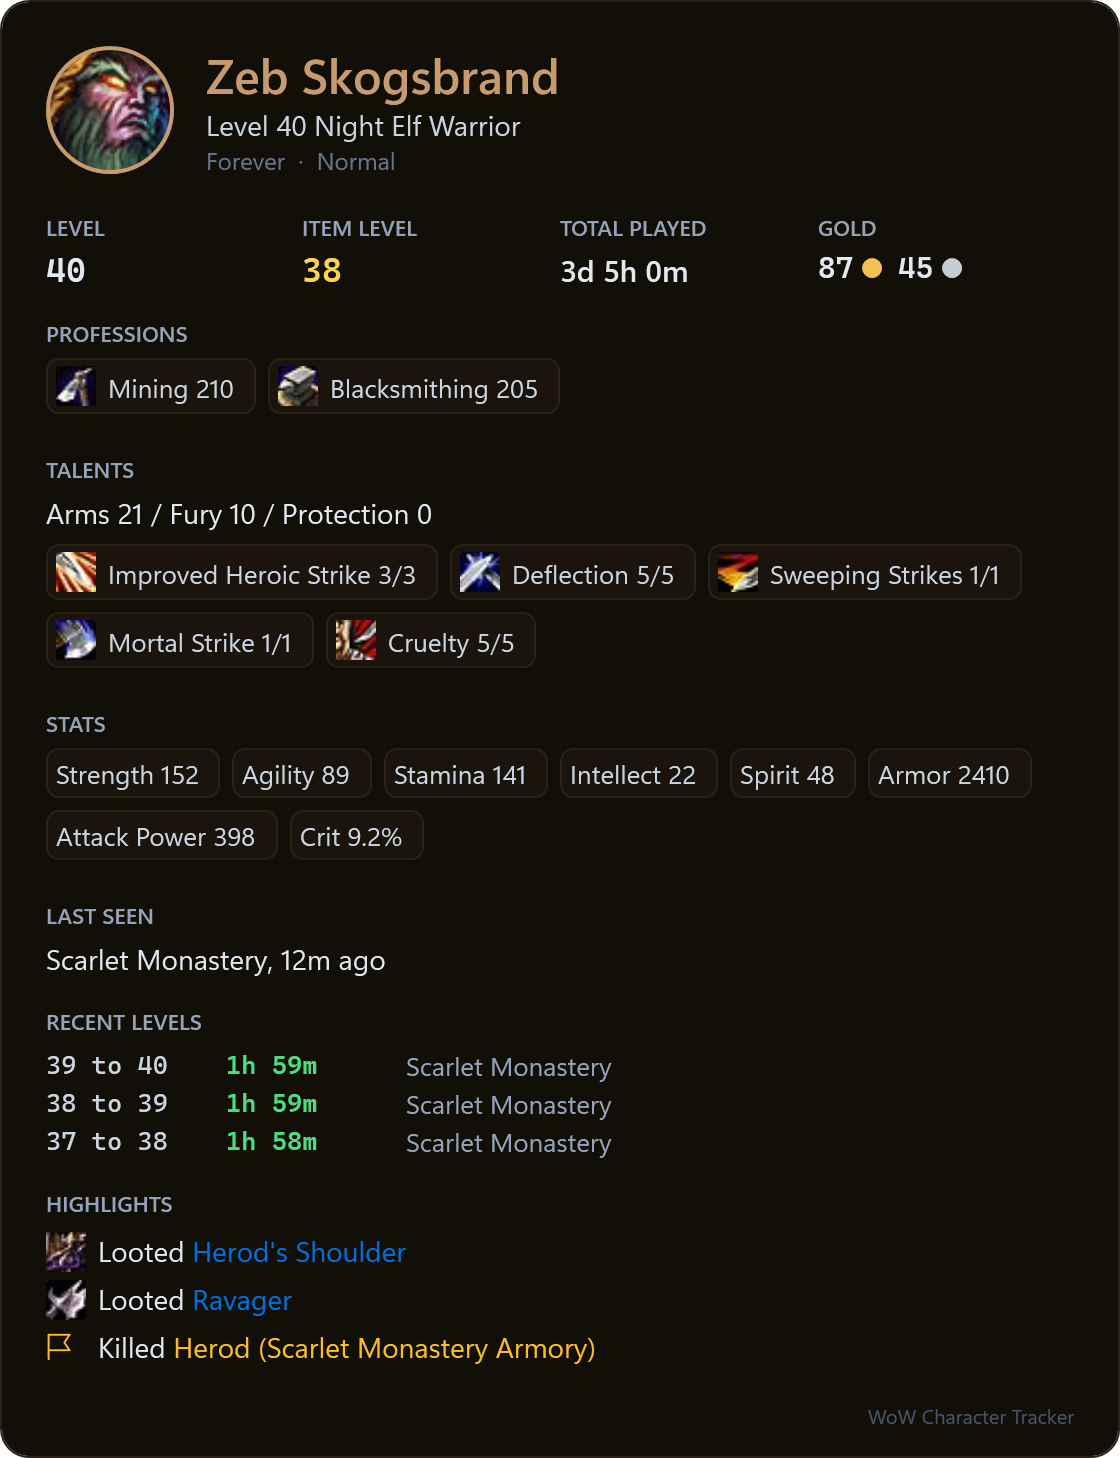
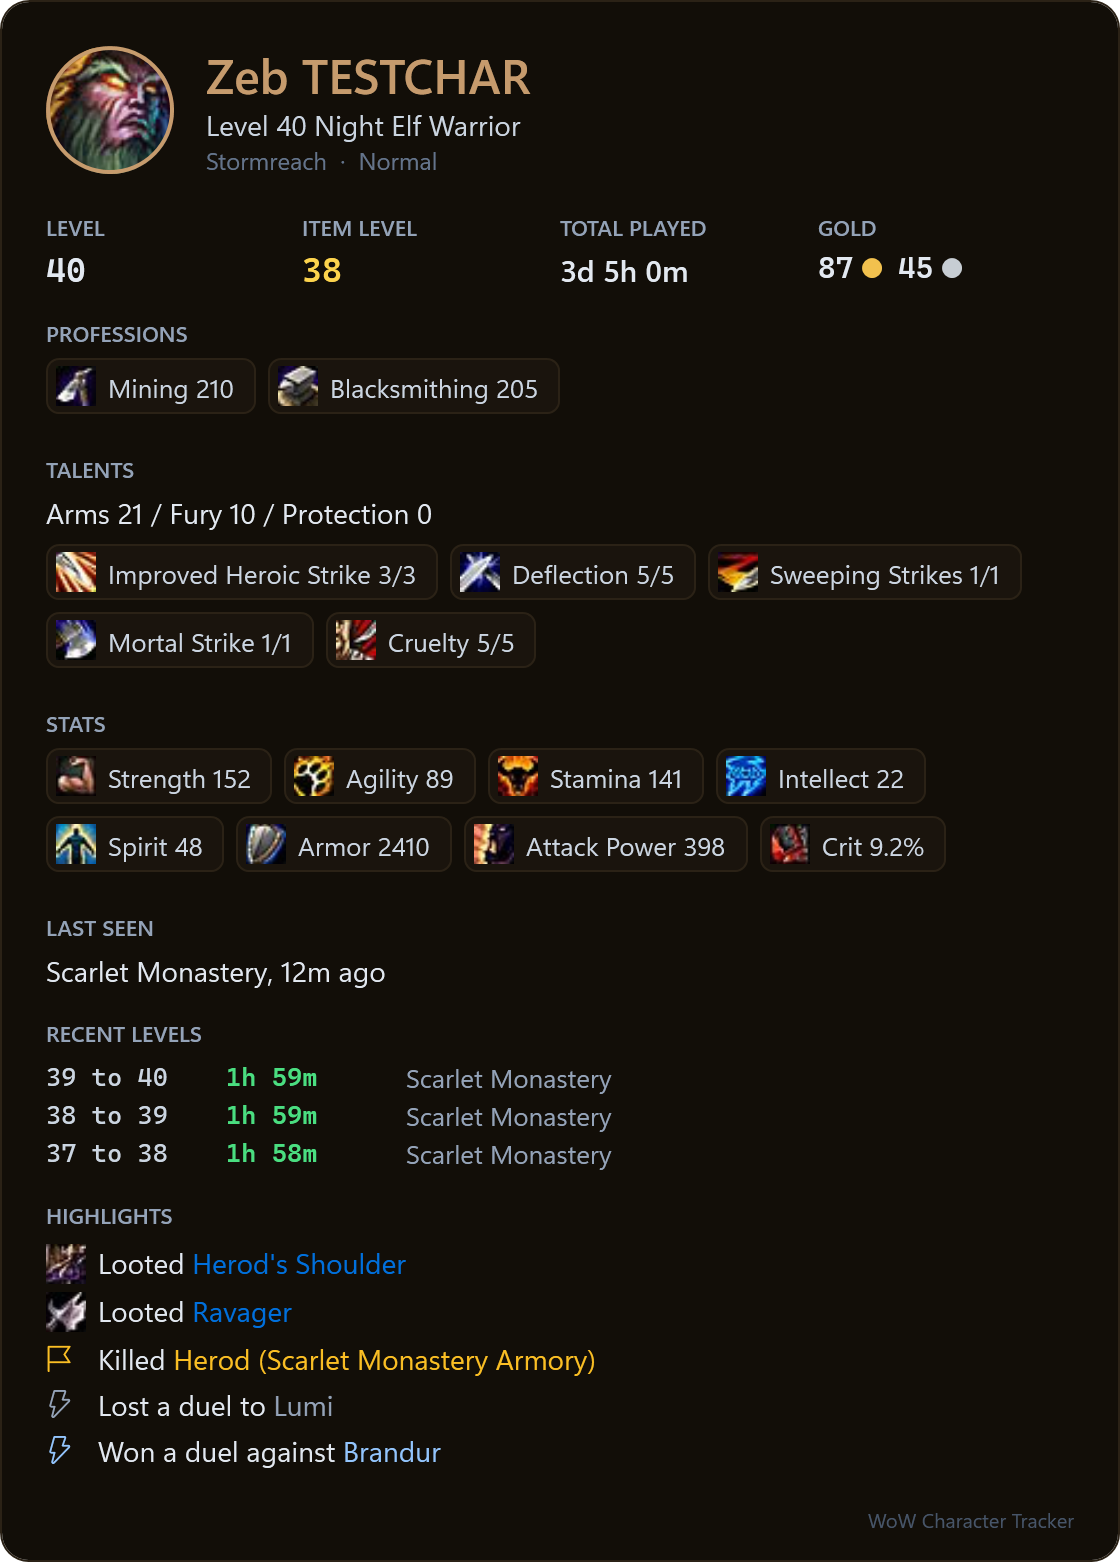
docs: readme and pictures for 0.20.0
Start menu shortcut and download size, stat and zone icons, the
in-game portrait in posts. New pictures: characters, what gets posted,
uninstall and the Discord character card with stat icons.

Claude-Session: 472c1081-3463-49da-900f-56dbae6ece1d

diff --git a/README.md b/README.md
@@ -38,7 +38,7 @@ A level-up post, with the screenshot the addon took in game:
 
 ## Getting started
 
-1. Download `WoWCharacterTracker.exe` from the [Releases page](https://github.com/JDybeck/wow-character-tracker/releases/latest). Nothing else to install. Windows might show a SmartScreen warning since the exe isn't signed, click **More info** and then **Run anyway**.
+1. Download `WoWCharacterTracker.exe` (about 60 MB) from the [Releases page](https://github.com/JDybeck/wow-character-tracker/releases/latest). Nothing else to install. On its first start it adds itself to your Start menu, so you can find it later by typing "WoW Character Tracker" in Windows search. Windows might show a SmartScreen warning since the exe isn't signed, click **More info** and then **Run anyway**.
 
    Developers can build it themselves instead: run `build.cmd` (needs the [.NET 10 SDK](https://dotnet.microsoft.com/download)), it lands in `dist\`.
 2. Double-click `WoWCharacterTracker.exe`. Pick **Retail** or **Forever** at the top. Three checks show what's set up for that game:
@@ -93,7 +93,7 @@ The **In game** page has what the addon does in game besides posting:
 ### The app
 
 - **Characters**: every character you've logged in with the addon, with class, spec, level, item level, gold and when you last played. The bottom of the list shows the total gold and total played for the realm (Retail) or ruleset (Forever) you've filtered on. Hardcore characters are marked. Click one for its details, in three tabs:
-  - **Overview**: guild, total played, gold, crests and your Mythic Keystone (Retail), professions, talents, stats, last zone and highlights. Boss kills say who was there, deaths what they cost. On Forever, talents are split into the class's three trees and every talent you picked is shown with its icon and rank. On Retail, **Open in Wowhead talent calculator** opens your build there. **Post talents to Discord** posts the build on its own: level, race and class, the points per tree, the talents picked and the Wowhead calculator link.
+  - **Overview**: guild, total played, gold, crests and your Mythic Keystone (Retail), professions, talents, stats (each with its icon), last zone (with an icon for what kind of place it is: dungeon, raid, battleground, city, town or the open world) and highlights. Boss kills say who was there, deaths what they cost. On Forever, talents are split into the class's three trees and every talent you picked is shown with its icon and rank. On Retail, **Open in Wowhead talent calculator** opens your build there. **Post talents to Discord** posts the build on its own: level, race and class, the points per tree, the talents picked and the Wowhead calculator link.
   - **Gear and bags**: what the character wears, laid out like the character window, then its bags and its bank (as of the last time you opened it), with icons, quality colors and Wowhead tooltips. Click an item to open it on Wowhead.
 
     <img src="docs/images/gear-and-bags.png" alt="A character's gear and bags in the app" width="560">
@@ -126,7 +126,7 @@ The **In game** page has what the addon does in game besides posting:
   ![A new version available: the Update button at the top and the banner with Update now](docs/images/update-available.png)
 
 - **Stream overlay** (the panel between Discord and the console): see [Streaming](#streaming).
-- **Uninstall** (Settings, at the bottom): lists everything the app and the addon put on your PC, with every path and its size, and you pick what goes: the app, the addon in each game, your character data in each game, and the app's settings and caches. **Keep my data** (the default) removes the app and the addon but keeps your characters and settings for later, **Remove everything** removes it all, **Only the app** leaves the addon running. Afterwards it shows what was removed, closes, and the app deletes itself a moment later. Close the game first, since it writes the addon's files again when it exits. Your screenshots, your webhooks in Discord and the game's Advanced combat logging setting stay either way.
+- **Uninstall** (Settings, at the bottom): lists everything the app and the addon put on your PC, with every path and its size, and you pick what goes: the app (with its Start menu shortcut), the addon in each game, your character data in each game, and the app's settings and caches. **Keep my data** (the default) removes the app and the addon but keeps your characters and settings for later, **Remove everything** removes it all, **Only the app** leaves the addon running. Afterwards it shows what was removed, closes, and the app deletes itself a moment later. Close the game first, since it writes the addon's files again when it exits. Your screenshots, your webhooks in Discord and the game's Advanced combat logging setting stay either way.
 
   <img src="docs/images/uninstall.png" alt="The Uninstall page: every part with its paths and size" width="640">
 
@@ -212,7 +212,7 @@ Not built yet, roughly in order:
 - Professions and end bosses are matched by English name, so a non-English client won't show them.
 - Bags and gear reach the app on `/reload` or logout (they're too much for the live channel). The bank only updates when you open it in game.
 - Rating milestones start counting from the first time the addon sees your rating, so ratings you already had aren't posted.
-- Retail portraits are the character's own render, found through Raider.IO (after the next login with the updated addon). Forever characters show their own portrait in the app: the addon puts it next to the data grid in the check-in shot after you log in, and the app cuts it out. Discord needs a web address for pictures, so posts use the race portrait from Wowhead's icon CDN (or the class icon) instead.
+- Retail portraits are the character's own render, found through Raider.IO (after the next login with the updated addon). Forever characters show their own portrait in the app: the addon puts it next to the data grid in the check-in shot after you log in, and the app cuts it out. Talent posts and text character cards upload it with the message as their picture. The sender picture has to be a web address, so it stays the race portrait from Wowhead's icon CDN (or the class icon), and so do automatic posts like level-ups.
 - Screenshots go out at full size first (boosted servers allow bigger uploads). If Discord says one is too big, a smaller JPEG copy is sent instead, and only if that's still too big does the post go out without it.
 - On the first run, events already saved are marked as posted so the channel isn't flooded. Start the app with `--backfill` to post them instead.
 - Settings and webhooks are saved in `%LOCALAPPDATA%\WoWCharacterTracker\config.json` and survive updates.
